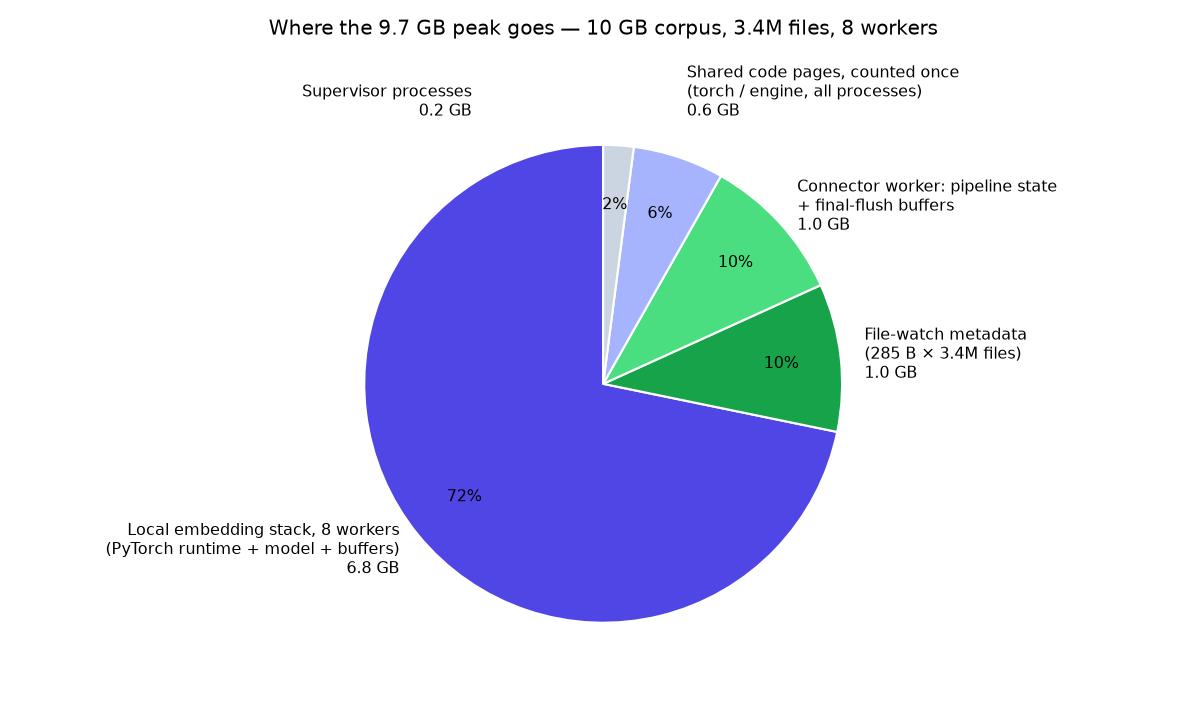
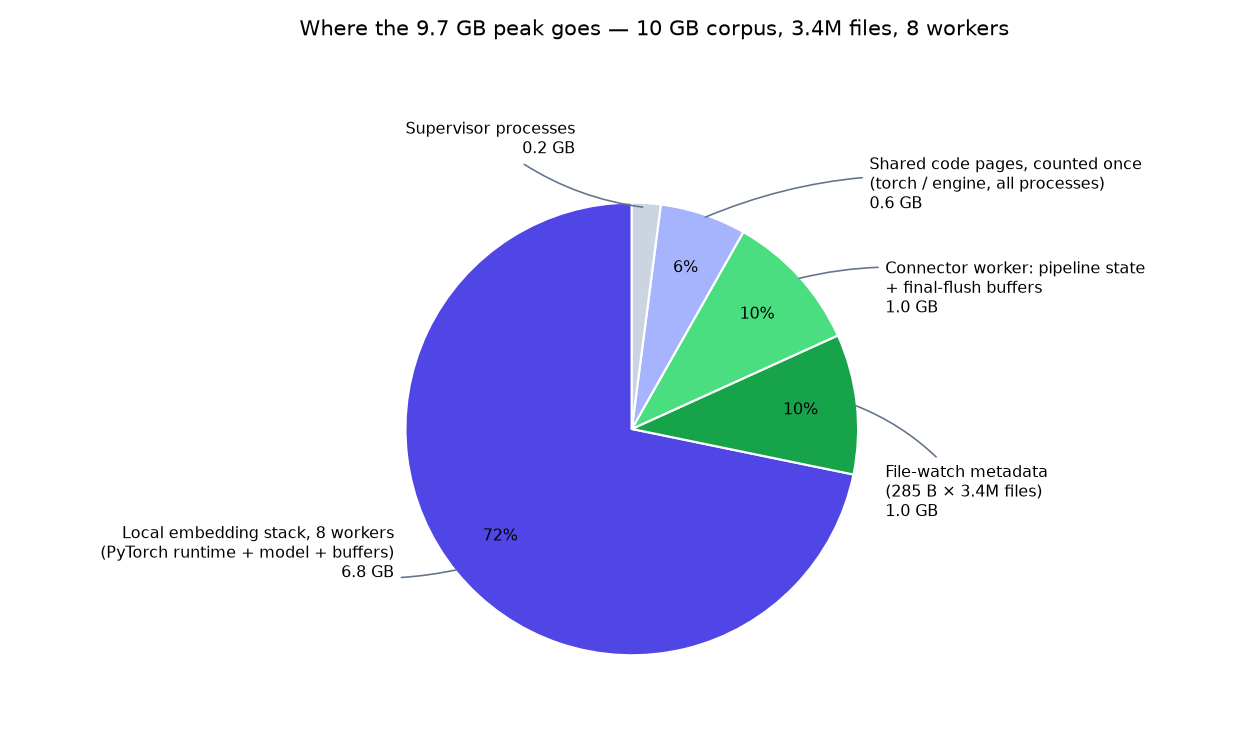
reflect long benchmark run results

Changed region(s): [[0.0619, 0.1197, 0.9281, 0.8974], [0.2166, 0.0299, 0.8043, 0.0598], [0.5569, 0.0897, 0.8043, 0.1795]]

diff --git a/demos/generate_demos.py b/demos/generate_demos.py
@@ -83,18 +83,19 @@ T_LINE_H = 30
 
 SCRIPT = [
     ("cmd", "vetosh quickstart"),
-    ("out", "  Step 1: What to generate?   › Universal config", T_OUT),
-    ("out", "  …  Wrote universal config to ./config.yaml", T_OUT),
+    ("out", "  ? Where are your documents?   › ./docs", T_OUT),
+    ("out", "  ? Vector database             › DuckDB (embedded, zero setup)", T_OUT),
+    ("out", "  ? Embeddings                  › local · no API key needed", T_OUT),
+    ("out", "  ✓ Wrote config.yaml", T_OUT),
     ("gap", ""),
-    ("cmd", "vetosh indexer --config config.yaml"),
-    ("out", "  [indexer] watching /data/documents  (fs · only_metadata)", T_OUT),
-    ("out", "  [indexer] parsed 128 docs · embedded 1,544 chunks → pgvector", T_ACCENT),
+    ("cmd", "vetosh up --config config.yaml"),
+    ("out", "  [indexer] watching ./docs  (fs · streaming)", T_OUT),
+    ("out", "  [indexer] parsed 128 docs · embedded 1,544 chunks → duckdb", T_ACCENT),
+    ("out", "  [server]  chat UI + API on http://localhost:8989", T_ACCENT),
     ("gap", ""),
-    ("cmd", "vetosh server --config config.yaml"),
-    ("out", "  INFO  Uvicorn running on http://0.0.0.0:8000", T_OUT),
-    ("gap", ""),
-    ("cmd", "vetosh frontend --config config.yaml"),
-    ("out", "  INFO  Uvicorn running on http://0.0.0.0:3000  →  open in browser", T_ACCENT),
+    ("out", "  # edit a document — the index follows in seconds:", T_OUT),
+    ("cmd", "sed -i 's/129 EUR/199 EUR/' docs/pricing.md"),
+    ("out", "  [indexer] docs/pricing.md changed · re-embedded 3 chunks", T_ACCENT),
 ]
 
 
@@ -205,7 +206,7 @@ def _draw_frontend(composer_text, show_user, typing, answer_chars, show_sources)
     d.line([0, 53, F_W, 53], fill=F_BORDER)
     d.rounded_rectangle([20, 16, 46, 42], radius=8, fill=F_ACCENT)
     d.text((56, 29), "vetosh", font=sans_b, fill=F_TEXT, anchor="lm")
-    d.text((F_W - 20, 29), "API · http://localhost:8000", font=small, fill=F_SOFT, anchor="rm")
+    d.text((F_W - 20, 29), "API · http://localhost:8989 · indexed 2 s ago", font=small, fill=F_SOFT, anchor="rm")
 
     y = 86
     if not show_user:

diff --git a/README.md b/README.md
@@ -106,13 +106,24 @@ see [benchmarks/realtime-data-indexing](benchmarks/realtime-data-indexing):
 | 3 GB | 1 573 000 | 841 890 | 2 703 850 | 15 min | 8.3 GB | 6.0 GB | 16/20 |
 | 10 GB | 5 243 000 | 3 423 359 | 10 093 514 | 63 min | 9.7 GB | 20.8 GB | 14/20 |
 
-Documents flow through the pipeline rather than accumulating in it: sources
-are read in metadata-only mode, backfill is backpressure-bounded, parsed-text
-memoization spills to disk. The only memory that scales with the corpus is
-file-watch metadata — measured at 285 bytes per watched file (right-hand
-plot: five runs against the formula), the price of detecting live edits and
-deletions. Everything else is flat: a 100× larger corpus costs 1.3× the
-memory, and packing the same bytes into fewer files removes even that.
+Documents flow through the pipeline rather than accumulating in it, so
+what stays in memory is short and worth spelling out.
+
+**Grows with the corpus — one thing.** The file-watch index: to detect live
+edits and deletions, the indexer keeps a record (path, mtime, size, owner)
+per watched file. Measured cost: **285 bytes per file** — 4 MB for 13k files,
+1 GB for 3.4M (right-hand plot: five runs against the formula). It scales
+with the *number of files*, not bytes: the same 3 GB packed into 85k larger
+files needs 24 MB instead of 240 MB.
+
+**Constant, regardless of corpus size.** The embedding stack (PyTorch
+runtime + model, per worker), the engine baseline (~200 MB per process),
+connector machinery (~0.4 GB), and working buffers that reach a plateau in
+the first minutes of a run and stay there — identical on 3 GB and 10 GB.
+
+**On disk, not in memory.** Parsed-text cache, persistence snapshots, and
+the embeddings themselves (in the vector database). That is why the curves
+plateau: a 100× larger corpus costs 1.3× the memory.
 
 <p align="center">
   <img src="docs/assets/bench-memory.png" alt="Left: indexer PSS over time for 100MB..10GB corpora, all curves plateau at 7-10GB. Right: connector-worker extra memory across five runs matches 285 bytes/file + 398 MB" width="100%">

diff --git a/benchmarks/realtime-data-indexing/README.md b/benchmarks/realtime-data-indexing/README.md
@@ -7,7 +7,7 @@ Measures the two claims that matter for the vetosh indexer:
 2. **Flat memory** — the indexer's memory consumption does **not** grow with
    the size of the input collection (`only_metadata` sources keep paths, not
    bytes, in the pipeline). The output is a memory-over-time plot and the
-   kernel-tracked peak RSS.
+   physical peak memory (PSS: shared pages counted once, not per process).
 
 Everything runs locally and costs nothing: embeddings are computed by a local
 sentence-transformers model (`all-MiniLM-L6-v2`, 384 dims) — **no external
@@ -27,7 +27,9 @@ Three containers via docker-compose:
   questions through `/api/v1/retrieve`.
 
 Memory is sampled from `/proc/1/status` inside the indexer container every
-few seconds: `VmRSS` for the time series, `VmHWM` (kernel-tracked high-water
+few seconds: `VmRSS` and `Pss` for the time series (PSS divides pages shared
+between workers — e.g. the PyTorch libraries — proportionally, so its sum is
+the honest physical footprint), `VmHWM` (kernel-tracked high-water
 mark) for the exact peak — no sampling artifacts.
 
 ## Dataset
@@ -44,9 +46,9 @@ python prepare_dataset.py --size-mb 100     # also: 1000, 3000, 10000
 python run_bench.py --size 100mb
 ```
 
-Outputs land in `results/`: `<size>-memory.png` (RSS over time),
+Outputs land in `results/`: `<size>-memory.png` (memory over time),
 `<size>-memory.csv`, `<size>-summary.json` (duration, MB/min, chunk count,
-peak RSS, retrieval accuracy).
+peak RSS/PSS, retrieval accuracy).
 
 To make the flat-memory point, run the same benchmark at increasing sizes
 (100mb → 1gb → 3gb → 10gb) and compare `peak_rss_mb` across summaries: the